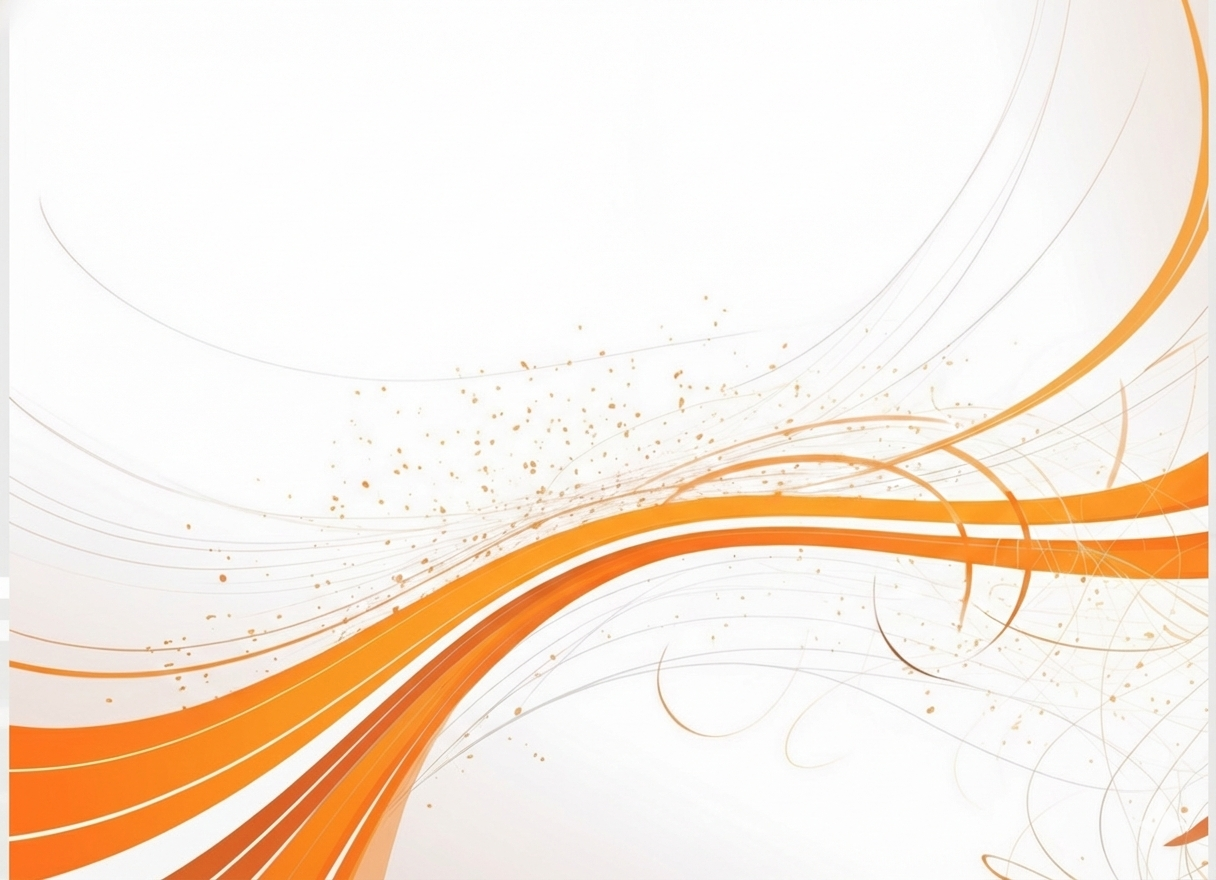
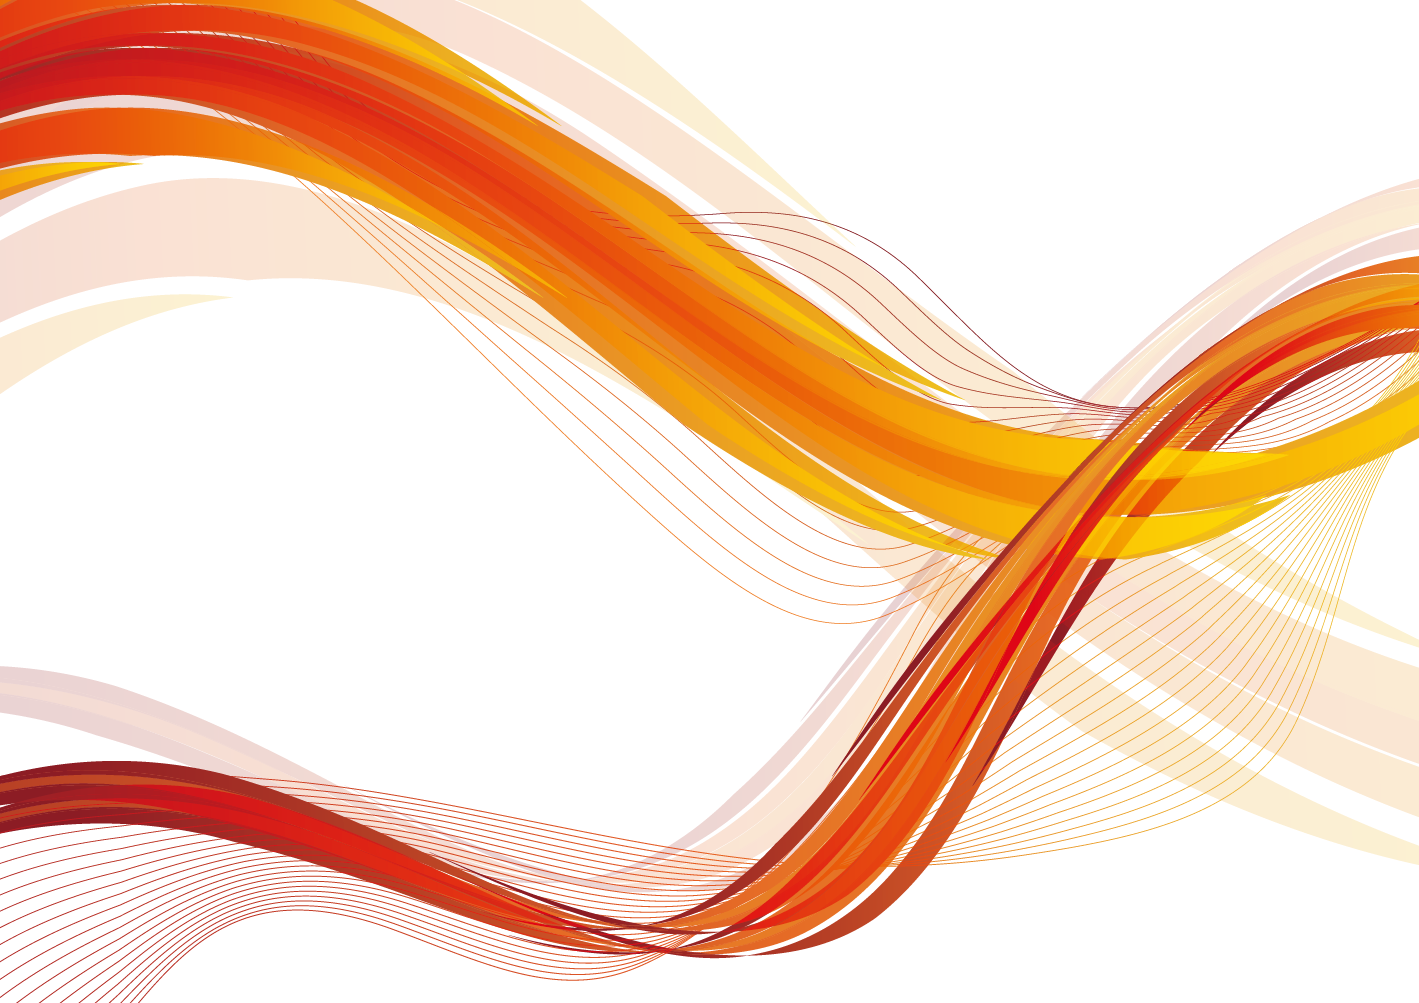
feat: Add explore categories, partners bar, and testimonials sections to the home page.

diff --git a/src/features/home/components/testimonials-section.tsx b/src/features/home/components/testimonials-section.tsx
@@ -34,8 +34,14 @@ export function TestimonialsSection() {
 
   return (
     <section className="py-24 bg-background relative overflow-hidden">
-      {/* Background gradient */}
-      <div className="absolute inset-0 bg-gradient-to-br from-primary/5 via-background to-accent/5 pointer-events-none" />
+      {/* Background Image */}
+      <Image
+        src="/images/testimonials.png"
+        alt="Testimonials Background"
+        fill
+        className="h-full w-full object-fill opacity-30 dark:opacity-20 mix-blend-multiply dark:mix-blend-screen pointer-events-none"
+        priority
+      />
 
       <div className="relative max-w-7xl mx-auto px-4 sm:px-6 lg:px-8">
         <div className="text-center max-w-3xl mx-auto mb-16 space-y-4">

diff --git a/src/features/home/components/partners-bar-section.tsx b/src/features/home/components/partners-bar-section.tsx
@@ -2,7 +2,7 @@ import React from "react";
 
 export function PartnersBarSection() {
   return (
-    <section className="py-12 border-y border-border bg-background">
+    <section className="py-12 border-y border-border bg-muted/20">
       <div className="max-w-7xl mx-auto px-4 sm:px-6 lg:px-8">
         <p className="text-center text-xs font-bold uppercase tracking-[0.3em] text-muted-foreground mb-8">
           Localized Payments & Partners

diff --git a/src/features/home/components/explore-categories-section.tsx b/src/features/home/components/explore-categories-section.tsx
@@ -62,7 +62,7 @@ export function ExploreCategoriesSection() {
   ];
 
   return (
-    <section className="py-24 bg-background">
+    <section className="py-24 bg-background bg-muted/20 dark:bg-muted/10">
       <div className="max-w-7xl mx-auto px-4 sm:px-6 lg:px-8">
         <div className="text-center max-w-3xl mx-auto mb-16 space-y-4">
           <h2 className="text-3xl md:text-5xl font-black font-display">
